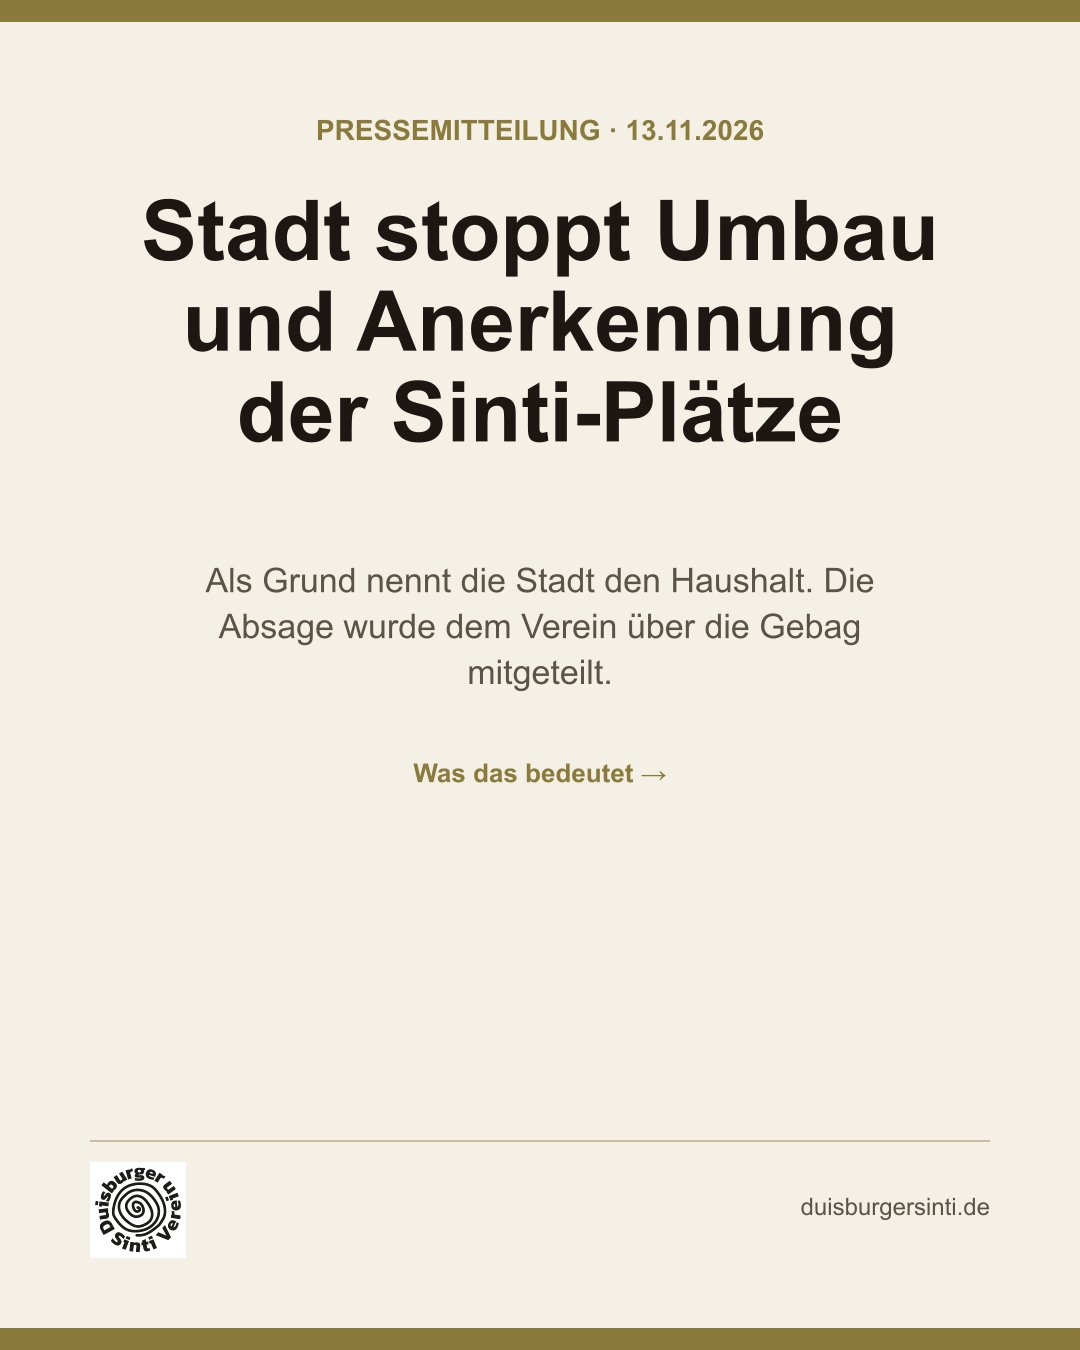
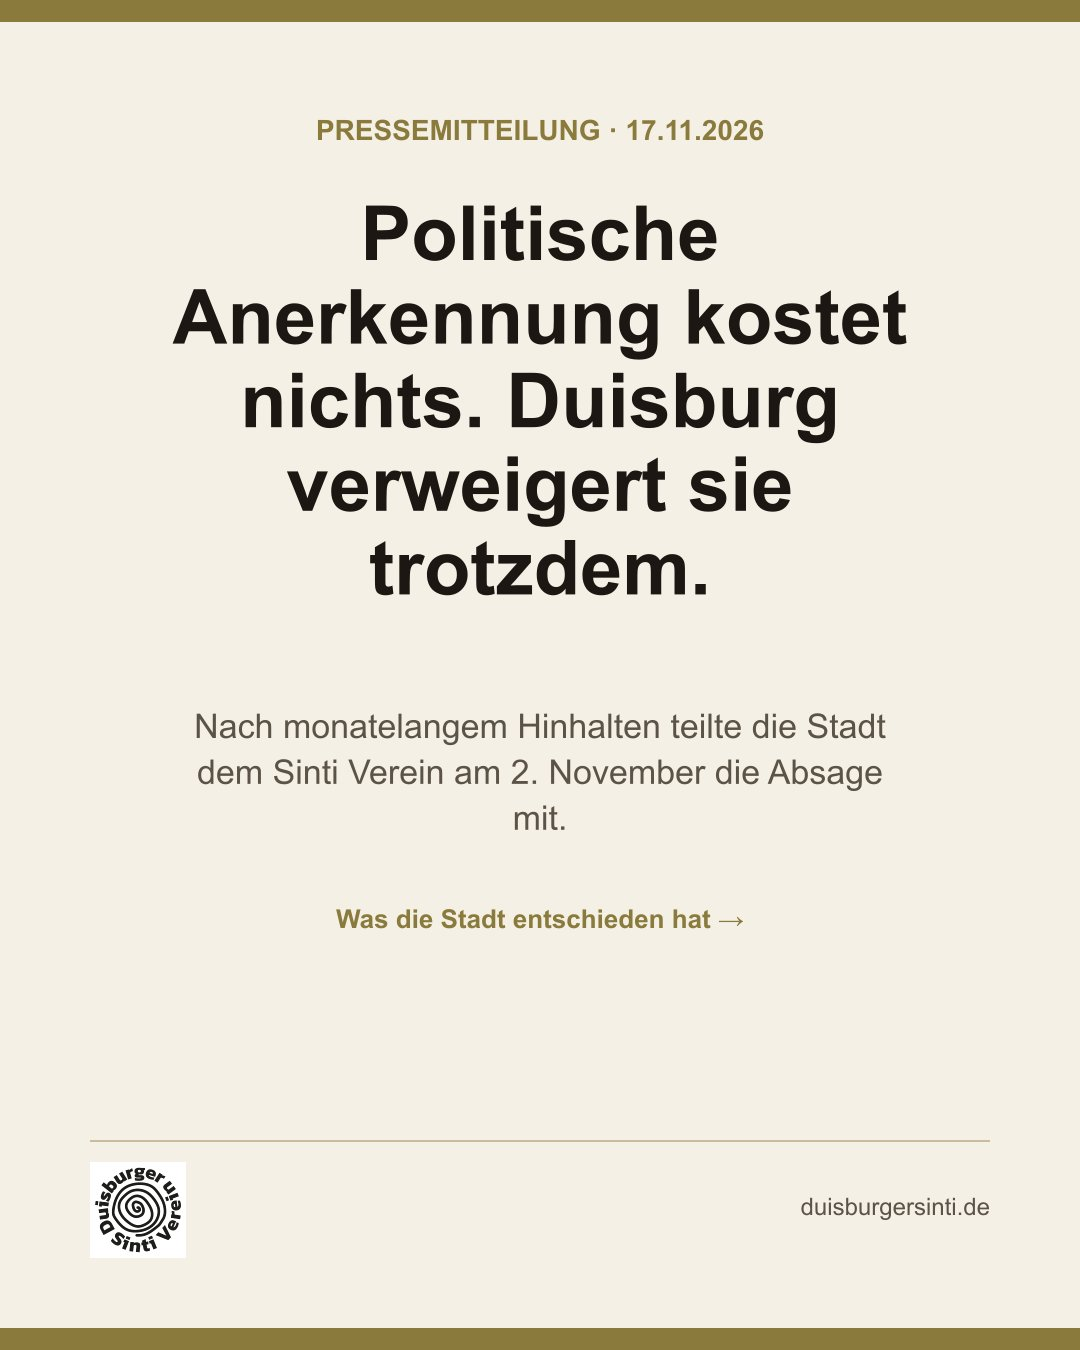
Pressemitteilung auf 17.11.2026 datiert, Vorschaubild aktualisiert

Changed region(s): [[0.1222, 0.1244, 0.8861, 0.6222], [0.3056, 0.6533, 0.6722, 0.6844]]

diff --git a/src/presse/2026-11-13-pm-stadt-stoppt-umbau-anerkennung-sinti-plaetze.md b/src/presse/2026-11-13-pm-stadt-stoppt-umbau-anerkennung-sinti-plaetze.md
@@ -1,14 +1,14 @@
 ---
 layout: presse-eintrag.njk
 title: "Pressemitteilung: Politische Anerkennung kostet nichts. Die Stadt Duisburg verweigert sie den Sinti-Familien trotzdem"
-date: 2026-11-13
+date: 2026-11-17
 kategorie: Pressemitteilung
 quelle: Duisburger Sinti Verein e.V.
 titelbild: /assets/img/uploads/presse/2026-11-13-pm-absage-kachel.jpg
 link:
 ---
 
-*Duisburg, 13. November 2026*
+*Duisburg, 17. November 2026*
 
 **Nach monatelangem Hinhalten und mehrfachem Nachfragen teilte die Verwaltung dem Duisburger Sinti Verein am 2. November erstmals ein Ergebnis mit. Der Umbau wird nicht finanziert, die Anerkennung der Plätze zurückgestellt. Der Verein hält die Begründungen für vorgeschoben und verweist auf Dokumente der Stadt selbst.**
 
